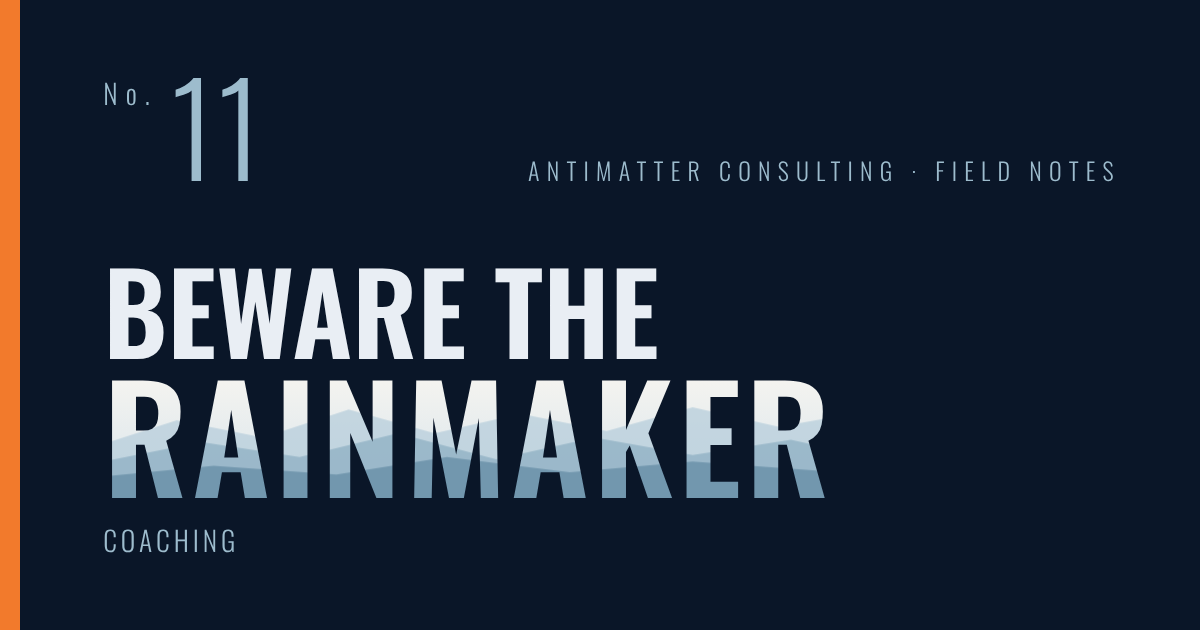
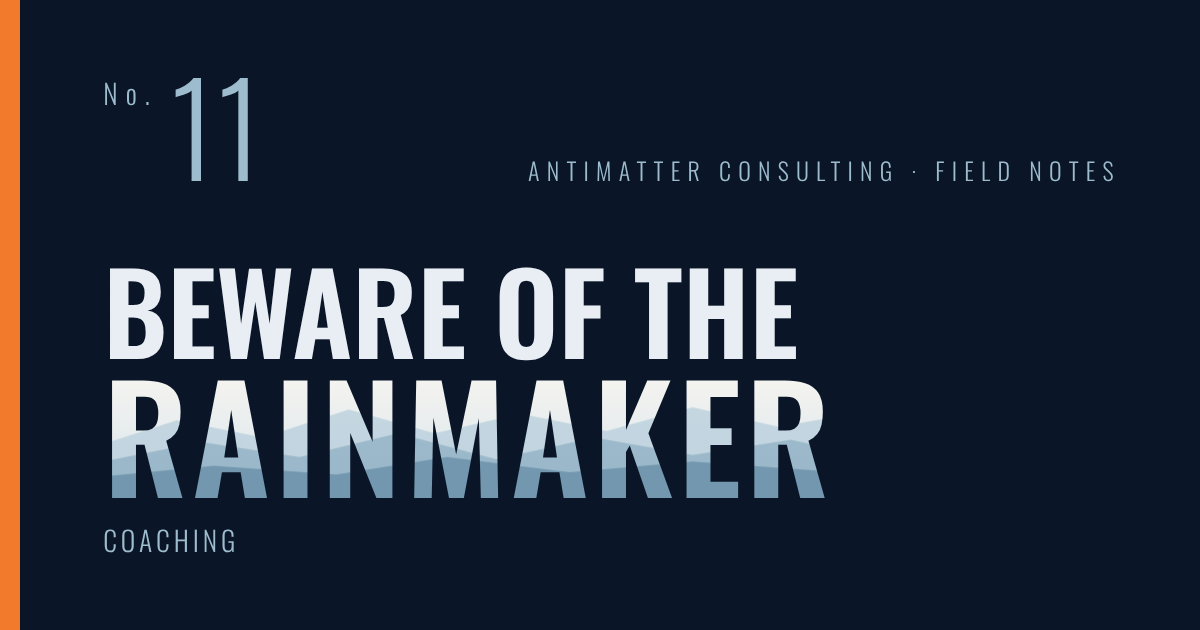
Field Notes No. 11: headline to 'Beware of the Rainmaker'
Claude-Session: https://claude.ai/code/session_01R5xxcGtrvbSJw18KkNjN6G

Changed region(s): [[0.4008, 0.4222, 0.6783, 0.573]]

diff --git a/field-notes/beware-the-rainmaker.html b/field-notes/beware-the-rainmaker.html
@@ -3,18 +3,18 @@
 <head>
 <meta charset="utf-8">
 <meta name="viewport" content="width=device-width, initial-scale=1">
-<title>Beware the Rainmaker — Field Notes — Antimatter Consulting</title>
+<title>Beware of the Rainmaker — Field Notes — Antimatter Consulting</title>
 <meta name="description" content="Six questions to ask before you poach a star from a bigger competitor.">
 <meta property="og:type" content="article">
 <meta property="og:site_name" content="Antimatter Consulting">
-<meta property="og:title" content="Beware the Rainmaker — Field Notes — Antimatter Consulting">
+<meta property="og:title" content="Beware of the Rainmaker — Field Notes — Antimatter Consulting">
 <meta property="og:description" content="Six questions to ask before you poach a star from a bigger competitor.">
 <meta property="og:url" content="https://antimatterconsulting.com/field-notes/beware-the-rainmaker">
 <meta property="og:image" content="https://antimatterconsulting.com/field-notes/img/beware-the-rainmaker.png">
 <meta property="og:image:width" content="1200">
 <meta property="og:image:height" content="630">
 <meta name="twitter:card" content="summary_large_image">
-<meta name="twitter:title" content="Beware the Rainmaker — Field Notes — Antimatter Consulting">
+<meta name="twitter:title" content="Beware of the Rainmaker — Field Notes — Antimatter Consulting">
 <meta name="twitter:description" content="Six questions to ask before you poach a star from a bigger competitor.">
 <meta name="twitter:image" content="https://antimatterconsulting.com/field-notes/img/beware-the-rainmaker.png">
 <link rel="icon" href="/favicon.svg" type="image/svg+xml">
@@ -210,7 +210,7 @@
 </nav>
 <section class="post-hero"><div class="wrap"><div class="fn-card"><div class="in">
     <div class="top"><div class="no"><small>No.</small>11</div><div class="eb">Antimatter Consulting · Field notes</div></div>
-    <div><div class="t" style="font-size:9.30cqw">Beware the <span class="mist">Rainmaker</span></div><div class="sub">Coaching</div></div>
+    <div><div class="t" style="font-size:9.30cqw">Beware of the <span class="mist">Rainmaker</span></div><div class="sub">Coaching</div></div>
   </div></div></div></section>
 <article>
   <div class="meta"><span>Coaching</span><span>Field notes No. 11 · Steve Zeller</span></div>

diff --git a/field-notes/index.html b/field-notes/index.html
@@ -215,11 +215,11 @@
 </div></section>
 <section><div class="wrap"><div class="fn-grid">
 <div class="fn-item">
-  <a class="fn-card" href="/field-notes/beware-the-rainmaker" aria-label="Beware the Rainmaker"><div class="in">
+  <a class="fn-card" href="/field-notes/beware-the-rainmaker" aria-label="Beware of the Rainmaker"><div class="in">
     <div class="top"><div class="no"><small>No.</small>11</div><div class="eb">Antimatter Consulting · Field notes</div></div>
-    <div><div class="t" style="font-size:9.30cqw">Beware the <span class="mist">Rainmaker</span></div><div class="sub">Coaching</div></div>
+    <div><div class="t" style="font-size:9.30cqw">Beware of the <span class="mist">Rainmaker</span></div><div class="sub">Coaching</div></div>
   </div></a>
-  <div class="meta"><span>Beware the Rainmaker</span><span>Coaching</span></div>
+  <div class="meta"><span>Beware of the Rainmaker</span><span>Coaching</span></div>
   <p>Six questions to ask before you poach a star from a bigger competitor.</p>
 </div>
 <div class="fn-item">

diff --git a/field-notes/qualifying-3.html b/field-notes/qualifying-3.html
@@ -268,7 +268,7 @@
 <p>At Antimatter, we help sales teams qualify faster and stop wasting time on deals that were never going to close. If you see “qualified” deals fall through the cracks month after month, <a href="/contact">let’s talk.</a></p>
 
 </article>
-<div class="post-nav"><a href="/field-notes/qualifying-2">&larr; Qualifying a Prospect, Vol. 2: Transition</a><a href="/field-notes/beware-the-rainmaker">Beware the Rainmaker &rarr;</a></div>
+<div class="post-nav"><a href="/field-notes/qualifying-2">&larr; Qualifying a Prospect, Vol. 2: Transition</a><a href="/field-notes/beware-the-rainmaker">Beware of the Rainmaker &rarr;</a></div>
 <footer>
   <div class="wrap">
     <div class="top">
